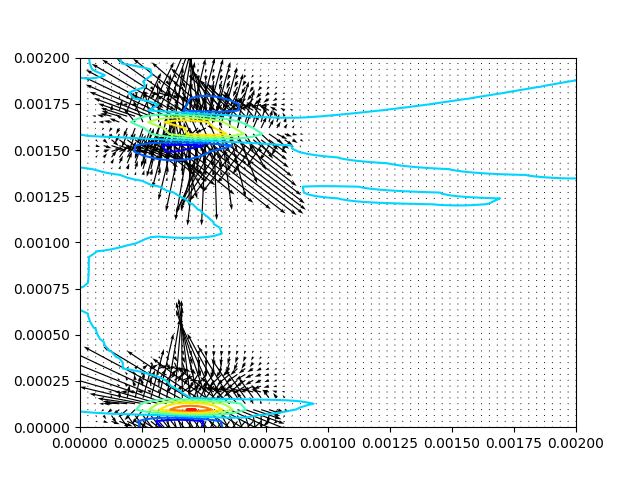
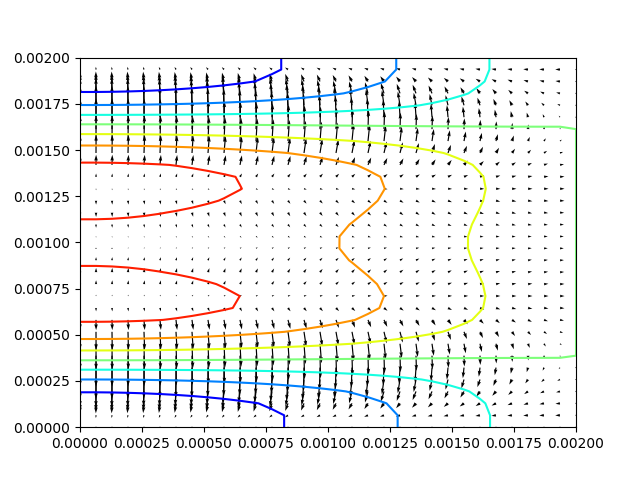
Seraching bug
Some boundary conditions solved. Also in p. neuman in p, and ux uy there where there is a free wall

Changed region(s): [[0.125, 0.125, 0.9062, 0.9062], [0.8125, 0.5938, 0.8438, 0.625]]

diff --git a/fluid_solver.py b/fluid_solver.py
@@ -2,38 +2,27 @@ import numpy as np
 from colorama import Fore, Back, Style
 from tqdm import tqdm
 
-def DDx(M,dx,Bound_left = 0,Bound_right = 0):
+def DDx(M,dx):
     I,J = M.shape
     ddxM = np.zeros([I,J])
     for j in range(1,J-1):
-        if j == J-1:
-            #ddxM[:,j] = (Bound_right-2*M[:,j]+M[:,j-1])/dx**2
-            ddxM[:,j] = ddxM[:,j-1] ## Same derivative that at lefht, free wall
-        elif j == 0:
-            ddxM[:,j] = (M[:,j+1]-2*M[:,j]+Bound_left)/dx**2
-        else:
-            ddxM[:,j] = (M[:,j+1]-2*M[:,j]+M[:,j-1])/dx**2
+        ddxM[:,j] = (M[:,j+1]-2*M[:,j]+M[:,j-1])/dx**2
     return ddxM
 
-def DDy(M,dy,Bound_up,Bound_down):
+def DDy(M,dy):
     I,J = M.shape
     ddyM = np.zeros([I,J])
     for i in range(1,I-1):
-        if i == I-1:
-            ddyM[i,:] = (Bound_down-2*M[i,:]+M[i-1,:])/dy**2
-        elif i == 0:
-            ddyM[i,:] = (M[i+1,:]-2*M[i,:]+Bound_up)/dy**2
-        else:
-            ddyM[i,:] = (M[i+1,:]-2*M[i,:]+M[i-1,:])/dy**2
+        ddyM[i,:] = (M[i+1,:]-2*M[i,:]+M[i-1,:])/dy**2
     return ddyM
 
-def Dx(M,dx,Bound_left = 0,Bound_right = 0):
+def Dx(M,dx,Bound_left = 0):
     I,J = M.shape
     dxM = np.zeros([I,J])
-    for j in range(1,J-1):
+    for j in range(J):
         if j == J-1:
-            #ddxM[:,j] = (Bound_right-2*M[:,j]+M[:,j-1])/dx**2
-            dxM[:,j] = dxM[:,j-1] ## Intuition. No curvature on the derivative because free wall
+            #ddxM[:,j] = (Bound_right-2*M[:,j]+M[:,j-1])/dx**2 ## What would be without the bc
+            dxM[:,j] = 0 ## Free wall, derivative 0
         elif j == 0:
             dxM[:,j] = (M[:,j+1]-Bound_left)/dx
         else:
@@ -43,7 +32,7 @@ def Dx(M,dx,Bound_left = 0,Bound_right = 0):
 def Dy(M,dy,Bound_up,Bound_down):
     I,J = M.shape
     dyM = np.zeros([I,J])
-    for i in range(1,I-1):
+    for i in range(I):
         if i == I-1:
             dyM[i,:] = (Bound_down-M[i-1,:])/dy
         elif i == 0:
@@ -52,52 +41,26 @@ def Dy(M,dy,Bound_up,Bound_down):
             dyM[i,:] = (M[i+1,:]-M[i-1,:])/dy
     return dyM
 
-## Functions with no bc
-
-def DDx_nobc(M,dx):
-    I,J = M.shape
-    ddxM = np.zeros([I,J])
-    for j in range(1,J-1):
-        if j == J-1:
-            ddxM[:,j] = 0 ## Intuition. No curvature on the derivative because free wall
-        elif j == 0:
-            ddxM[:,j] = 0
-        else:
-            ddxM[:,j] = (M[:,j+1]-2*M[:,j]+M[:,j-1])/dx**2
-    return ddxM
-
-def DDy_nobc(M,dy):
-    I,J = M.shape
-    ddyM = np.zeros([I,J])
-    for i in range(1,I-1):
-        if i == I-1:
-            ddyM[i,:] = 0
-        elif i == 0:
-            ddyM[i,:] = 0
-        else:
-            ddyM[i,:] = (M[i+1,:]-2*M[i,:]+M[i-1,:])/dy**2
-    return ddyM
-
 def Dx_nobc(M,dx):
     I,J = M.shape
     dxM = np.zeros([I,J])
-    for j in range(1,J-1):
+    for j in range(J):
         if j == J-1:
-            dxM[:,j] = dxM[:,j-1] ## Intuition. No curvature on the derivative because free wall
+            dxM[:,j] = 0
         elif j == 0:
-            dxM[:,j] = dxM[:,j+1]
+            dxM[:,j] = 0
         else:
             dxM[:,j] = (M[:,j+1]-M[:,j-1])/dx
     return dxM
 
-def Dy_nobc(M,dy,):
+def Dy_nobc(M,dy,Bound_right = 0):
     I,J = M.shape
     dyM = np.zeros([I,J])
-    for i in range(1,I-1):
+    for i in range(I):
         if i == I-1:
-            dyM[i,:] = dyM[i-1,:]
+            dyM[i,:] = (Bound_right-M[i-1,:])/dy
         elif i == 0:
-            dyM[i,:] = dyM[i+1,:]
+            dyM[i,:] = 0
         else:
             dyM[i,:] = (M[i+1,:]-M[i-1,:])/dy
     return dyM
@@ -137,7 +100,7 @@ class pde_fluid_solver():
         self.ux= fluid_ic.ux[:,:,np.newaxis]
         self.uy = fluid_ic.uy[:,:,np.newaxis]
         self.p = fluid_ic.pressure[:,:,np.newaxis]
-        if self.dim[0]!=bc_ux.dim or self.dim[0]!=bc_uy.dim:
+        if self.dim[1]!=bc_ux.dim or self.dim[1]!=bc_uy.dim:
             raise ValueError('Boundary condition and fluid have not the same dimension')
         # Stability comprobation
         Fx = fluid_ic.viscosity*dt/self.dx**2
@@ -160,44 +123,18 @@ class pde_fluid_solver():
         while not_good and count < max_reps:
             for k in range(repeats):
                     #simpler version commented, but boundary condition in p=p0
-                    #for i in range(1,I-1):
-                    #    for j in range(1,J-1):
-                    #        p_new[i,j] =+0.25*(p[i+1,j]+p_new[i-1,j]+p[i,j+1]+p_new[i,j-1])-0.25*self.dx**2*right_side[i,j]
-
-                for i in range(0,I):## Jacobi solver with boundary condition p_0. No boundary condition. We have to take into acount ALL bad i j
-                    if i == 0:
-                        for j in range(0,J):
-                            if j == 0:
-                                p_new[i,j] =+0.25*(p[i+1,j]+p_new[i,j]+p[i,j+1]+p_new[i,j])-0.25*self.dx**2*right_side[i,j]
-                            elif j == J-1:
-                                p_new[i,j] =+0.25*(p[i+1,j]+p_new[i,j]+p[i,j]+p_new[i,j-1])-0.25*self.dx**2*right_side[i,j]
-                            else:
-                                p_new[i,j] =+0.25*(p[i+1,j]+p_new[i,j]+p[i,j+1]+p_new[i,j-1])-0.25*self.dx**2*right_side[i,j]
-                    elif i == I-1:
-                        for j in range(J):
-                            if j == 0:
-                                p_new[i,j] =+0.25*(p[i,j]+p_new[i-1,j]+p[i,j+1]+p_new[i,j])-0.25*self.dx**2*right_side[i,j]
-                            elif j == J-1:
-                                p_new[i,j] =+0.25*(p[i,j]+p_new[i-1,j]+p[i,j]+p_new[i,j-1])-0.25*self.dx**2*right_side[i,j]
-                            else:
-                                p_new[i,j] =+0.25*(p[i,j]+p_new[i-1,j]+p[i,j+1]+p_new[i,j-1])-0.25*self.dx**2*right_side[i,j]
-                    else:
-                        for j in range(J):
-                            if j == 0:
-                                p_new[i,j] =+0.25*(p[i+1,j]+p_new[i-1,j]+p[i,j+1]+p_new[i,j])-0.25*self.dx**2*right_side[i,j]
-                            elif j == J-1:
-                                p_new[i,j] =+0.25*(p[i+1,j]+p_new[i-1,j]+p[i,j]+p_new[i,j-1])-0.25*self.dx**2*right_side[i,j]
-                            else:
-                                p_new[i,j] =+0.25*(p[i+1,j]+p_new[i-1,j]+p[i,j+1]+p_new[i,j-1])-0.25*self.dx**2*right_side[i,j]
+                for i in range(1,I-1):
+                    for j in range(1,J-1):
+                        p_new[i,j] =0.25*(p[i+1,j]+p_new[i-1,j]+p[i,j+1]+p_new[i,j-1])-0.25*self.dx**2*right_side[i,j]
                 del p
                 p = p_new.copy()
                 count += 1
-            #
-            # If first way of calculating, uncomment this error control
-            # rel_error = np.mean(np.mean(np.abs(DDx(p_new,self.dx,0,0)+DDy(p_new,self.dy,0,0)-right_side),axis = 0),axis = 0)/np.mean(np.mean(np.abs(right_side),axis = 0),axis = 0)
-            #
-
-            rel_error = np.mean(np.mean(np.abs(DDx_nobc(p_new,self.dx)+DDy_nobc(p_new,self.dy)-right_side),axis = 0),axis = 0)/np.mean(np.mean(np.abs(right_side),axis = 0),axis = 0)
+                p_new[:,0]=p_new[:,1]
+                p_new[-1,:]=p_new[-2,:]
+                p_new[0,:]=p_new[1,:]
+                p_new[:,-1]=0
+            er_mat = np.abs(DDx(p_new,self.dx)+DDy(p_new,self.dy)-right_side)
+            rel_error = np.mean(np.mean(er_mat[1:-1,1:-1],axis = 0),axis = 0)/np.mean(np.mean(np.abs(right_side[1:-1,1:-1]),axis = 0),axis = 0)
             if rel_error > precision and np.abs(rel_error-old_rel_error) < precision*0.1: ## Max accuracy of solver
                 not_good = False
                 print(Fore.RED + '\nWARNING: the relative error in pressure calculated by Jacobi method is %1.5f bigger than the precision = %1.5f. It is the better convergence that one can reach with  a %ix%i grid.'%(rel_error,precision,self.dim[0],self.dim[1]) + Style.RESET_ALL)
@@ -239,27 +176,18 @@ class pde_fluid_solver():
         bc_y_up = self.bc_uy.up
         bc_x_down = self.bc_ux.down
         bc_y_down = self.bc_uy.down
-        ## Empty matrix that is gonna be used
-        duxuy = np.zeros(self.dim)
         ## Second step simulation !!!
         for k in tqdm(range(1,N)):
-
-            ## We only calculate 1 time ux*uy
-            uxy = ux[:,:,k-1]*uy[:,:,k-1]
-
-            ## We only derivate one time the tensor ux uy
-            duxuy = Dx(uxy,dx)+Dy(uxy,dy,Bound_up=bc_x_up*bc_y_up,Bound_down=bc_x_down*bc_y_down)
-
             ## Step 1 calculate u_star
-            ux_s  = ux[:,:,k-1]-dt*duxuy
-            uy_s = uy[:,:,k-1]-dt*duxuy
+            ux_s  = ux[:,:,k-1]#-dt*(Dx(ux[:,:,k-1]**2,dx)+Dy(ux[:,:,k-1]*uy[:,:,k-1],dy,Bound_down=bc_x_down*bc_y_down,Bound_up=bc_x_up*bc_y_up))
+            uy_s = uy[:,:,k-1]#-dt*(Dx(ux[:,:,k-1]*uy[:,:,k-1],dx)+Dy(uy[:,:,k-1]**2,dy,Bound_down=bc_y_down**2,Bound_up=bc_y_up**2))
 
             ## Step 2 calculate u_star_star
-            ux_ss = ux_s+dt*visc*(DDx_nobc(ux_s,dx)+DDy_nobc(ux_s,dy))
-            uy_ss = uy_s+dt*visc*(DDx_nobc(ux_s,dx)+DDy_nobc(uy_s,dy))
+            ux_ss = ux_s+dt*visc*(DDx(ux_s,dx)+DDy(ux_s,dy))
+            uy_ss = uy_s+dt*visc*(DDx(ux_s,dx)+DDy(uy_s,dy))
 
             ## Step 3 impose incompresibility 
-            p[:,:,k]  = self.presure_solver(p[:,:,k-1],dens*(Dx_nobc(ux_ss,dx)+Dy_nobc(uy_ss,dy)/dt),max_reps=repeat_jac,precision=precision_jac)
+            p[:,:,k]  = self.presure_solver(p[:,:,k-1],dens*(Dx(ux_ss,dx)+Dy(uy_ss,dy,Bound_down=bc_y_down,Bound_up=bc_y_up)/dt),max_reps=repeat_jac,precision=precision_jac)
             ux[:,:,k] = ux_ss-dt*dens**-1*Dx_nobc(p[:,:,k],dx)
             uy[:,:,k] = uy_ss-dt*dens**-1*Dy_nobc(p[:,:,k],dy)
 
@@ -269,7 +197,7 @@ class pde_fluid_solver():
             uy[0,:,k]  = bc_y_up
             uy[-1,:,k] = bc_y_down
 
-            ux[:,0,k]  = np.zeros(self.dim[1])
+            ux[:,0,k]  = np.zeros(self.dim[0])
             # ux[:,-1,k] = nothing needed, free wall
             # uy[:,0,k]  = nothing needed, slipping wall
             # uy[:,-1,k] = nothing needed, free wall

diff --git a/main.py b/main.py
@@ -6,39 +6,39 @@ from fluid_solver import *
 
 u_slot = 1
 u_coflow = 0.5
-N_space = 64
-N_time = 21
+N_x,N_y = 32,32
+N_time = 25
 Lx,Ly = 2e-3,2e-3
-dt = 1e-8
+dt = 1e-6
 
-[X,Y] = np.meshgrid(np.linspace(0,Lx,N_space),np.linspace(0,Lx,N_space))
-up_bc_uy = np.ones(N_space)
-down_bc_uy = np.ones(N_space)
+[X,Y] = np.meshgrid(np.linspace(0,Lx,N_x),np.linspace(0,Lx,N_y))
+up_bc_uy = np.ones(N_x)
+down_bc_uy = np.ones(N_x)
 
 ## Particula BC of the problem
-for k in range(N_space):
-    if k < N_space/4:
+for k in range(N_x):
+    if k < N_x/4:
         up_bc_uy[k] = u_slot
         down_bc_uy[k] = -u_slot
-    elif N_space/4 <= k and k < N_space/2:
+    elif N_x/4 <= k and k < N_x/2:
         up_bc_uy[k] = u_coflow
         down_bc_uy[k] = -u_coflow
     else:
         up_bc_uy[k] = 0
         down_bc_uy[k] = 0
 
-up_bc_ux = np.zeros(N_space)
-down_bc_ux = np.zeros(N_space)
+up_bc_ux = np.zeros(N_x)
+down_bc_ux = np.zeros(N_x)
 
 ## Initial conditions and object creation
 
-u0x = np.zeros([N_space,N_space])
-u0y = np.zeros([N_space,N_space])
+u0x = np.zeros([N_y,N_x])
+u0y = np.zeros([N_y,N_x])
 u0y[0,:]=up_bc_uy
 u0y[-1,:]=down_bc_uy
 u0x[0,:]=up_bc_ux
 u0x[-1,:]=down_bc_ux
-p0 = 101225*np.ones([N_space,N_space])
+p0 = np.zeros([N_y,N_x])
 
 
 viscosity,density = 15e-6,1.1614
@@ -55,7 +55,7 @@ bc_uy = boundary_condition(up_bc_uy,down_bc_uy)
 solver = pde_fluid_solver(main_fluid,bc_ux,bc_uy,N_time,dt,Lx,Ly)
 
 #solver.presure_solver(np.ones([N_space,N_space]),precision = 0.05,max_reps = 1000)
-solver.solve_navier_stokes(N_time,precision_jac = 0.15,repeat_jac = 1000)
+solver.solve_navier_stokes(N_time,precision_jac = 0.0005,repeat_jac = 2000)
 
 
 # Change this to the path on your oun laptop
@@ -64,6 +64,6 @@ path = '/Users/Pacopol/Desktop/Plasma Physics and Fusion Master/Numerical Method
 for k in np.arange(1,N_time,1):
     fig = plt.figure()
     plt.contour(X,Y,solver.p[:,:,k],cmap = 'jet')
-    plt.colorbar
     plt.quiver(X,Y,solver.ux[:,:,k],solver.uy[:,:,k])
     fig.savefig(path + '/' + 'frame%i.png'%(k))
+    del fig

diff --git a/Test_presure_solver.py b/Test_presure_solver.py
@@ -1,0 +1,62 @@
+from fluid_solver import *
+
+import numpy as np
+import matplotlib.pyplot as plt
+import os
+
+from fluid_solver import *
+
+u_slot = 1
+u_coflow = 0.5
+N_space = 20
+N_time = 15
+Lx,Ly = 2e-3,2e-3
+dt = 1e-7
+
+[X,Y] = np.meshgrid(np.linspace(0,Lx,N_space),np.linspace(0,Lx,N_space))
+up_bc_uy = np.ones(N_space)
+down_bc_uy = np.ones(N_space)
+
+## Particula BC of the problem
+for k in range(N_space):
+    if k < N_space/4:
+        up_bc_uy[k] = u_slot
+        down_bc_uy[k] = -u_slot
+    elif N_space/4 <= k and k < N_space/2:
+        up_bc_uy[k] = u_coflow
+        down_bc_uy[k] = -u_coflow
+    else:
+        up_bc_uy[k] = 0
+        down_bc_uy[k] = 0
+
+up_bc_ux = np.zeros(N_space)
+down_bc_ux = np.zeros(N_space)
+
+## Initial conditions and object creation
+
+u0x = np.zeros([N_space,N_space])
+u0y = np.zeros([N_space,N_space])
+u0y[0,:]=up_bc_uy
+u0y[-1,:]=down_bc_uy
+u0x[0,:]=up_bc_ux
+u0x[-1,:]=down_bc_ux
+p0 = 101225*np.ones([N_space,N_space])
+
+viscosity,density = 15e-6,1.1614
+main_fluid = fluid_initial_condition(u_0x = u0x,
+                u_0y = u0y,
+                p_0 = p0,
+                viscosity = viscosity,
+                density = density)
+
+plt.show()
+bc_ux = boundary_condition(up_bc_ux,down_bc_ux)
+bc_uy = boundary_condition(up_bc_uy,down_bc_uy)
+
+solver = pde_fluid_solver(main_fluid,bc_ux,bc_uy,N_time,dt,Lx,Ly)
+x,y = solver.X,solver.Y
+print('dfdveqv')
+p = solver.presure_solver(p0,u0x-1,max_reps=10000)
+fig, ax = plt.subplots(subplot_kw={"projection": "3d"})
+ax.plot_surface(x,y,p,linewidth=0, antialiased=False)
+plt.show()
